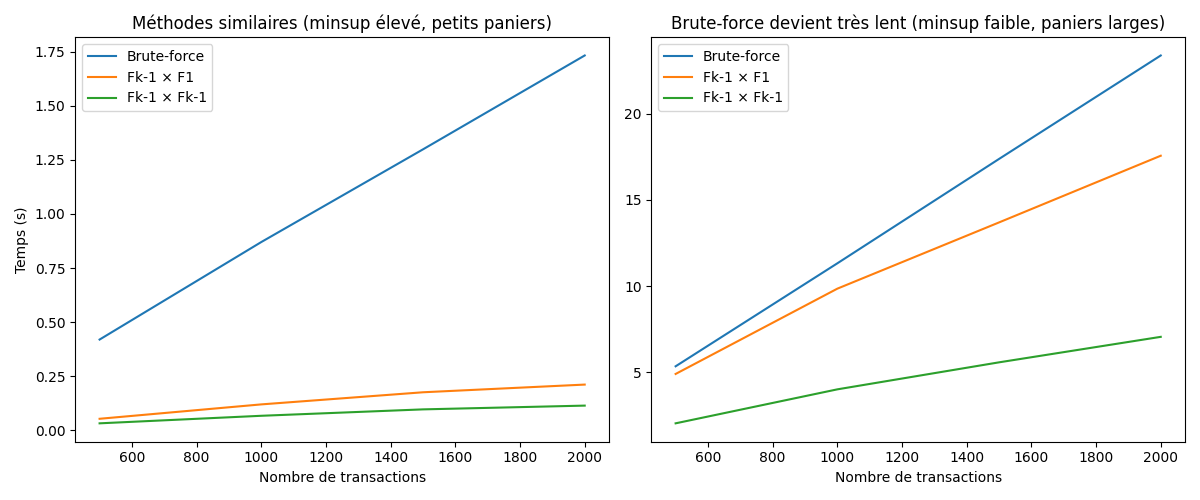
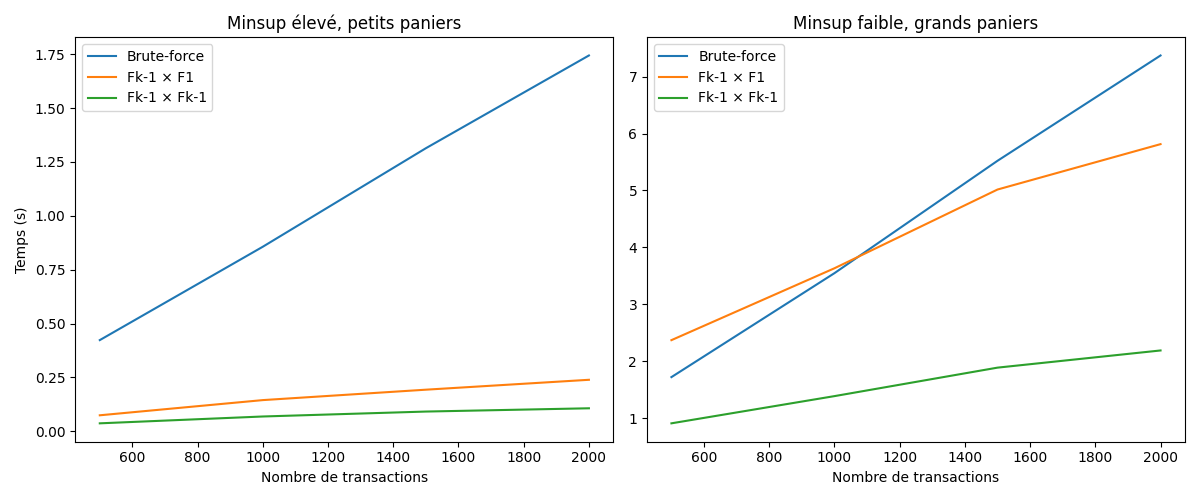
Update benchmark parameters and improve documentation in rapport

diff --git a/scripts/II_benchmark.py b/scripts/II_benchmark.py
@@ -34,13 +34,13 @@ def avg_runtime(transactions, minsup, method, runs=5):
 
 def benchmark():
     # --- Figure 1
-    minsup_left = 0.5
+    minsup_left = 0.8
     n_items_left = 15
     width_range_left = (3, 5)
 
     # --- Figure 2
-    minsup_right = 0.05
-    n_items_right = 17
+    minsup_right = 0.1
+    n_items_right = 15
     width_range_right = (5, 8)
 
     sizes = [500, 1000, 1500, 2000]
@@ -73,7 +73,7 @@ def benchmark():
     axes[0].plot(sizes, results_left["bruteforce"], label="Brute-force")
     axes[0].plot(sizes, results_left["stepwise"], label="Fk-1 × F1")
     axes[0].plot(sizes, results_left["selfjoin"], label="Fk-1 × Fk-1")
-    axes[0].set_title("Méthodes similaires (minsup élevé, petits paniers)")
+    axes[0].set_title("Minsup élevé, petits paniers")
     axes[0].set_xlabel("Nombre de transactions")
     axes[0].set_ylabel("Temps (s)")
     axes[0].legend()
@@ -82,7 +82,7 @@ def benchmark():
     axes[1].plot(sizes, results_right["bruteforce"], label="Brute-force")
     axes[1].plot(sizes, results_right["stepwise"], label="Fk-1 × F1")
     axes[1].plot(sizes, results_right["selfjoin"], label="Fk-1 × Fk-1")
-    axes[1].set_title("Brute-force devient très lent (minsup faible, paniers larges)")
+    axes[1].set_title("Minsup faible, grands paniers")
     axes[1].set_xlabel("Nombre de transactions")
     axes[1].legend()
 

diff --git a/rapport - figures/rapport.md b/rapport - figures/rapport.md
@@ -4,27 +4,21 @@ On teste 3 implémentations de génération d'itemsets fréquents pour la géné
 fréquents.
 
 1. Bruteforce 
-   - génération de tous les itemsets possibles de taille 1 à n (combinaisons de tous les 
-         items). 
+   - génération de tous les itemsets possibles de taille 1 à n (combinaisons de tous les items). 
    - Pour chaque itemset, calcule son support en parcourant toutes les transactions. 
    - Conserve uniquement ceux qui atteignent le support minimum. 
    - Probablement inefficace car teste même les itemsets qui ne peuvent pas être fréquents.
 2. Stepwise $(F_{k-1} × F_1)$
-   - Utilise la propriété __Apriori__ : si un itemset est fréquent, tous ses sous-ensembles le sont 
-      aussi. 
-   - Commence par les 1-itemsets fréquents ($F_1$), puis génère les candidats de taille k en 
-     combinant les itemsets fréquents de taille k-1 avec tous les 1-itemsets. 
-   - Calcule le support uniquement pour ces candidats. S'arrête quand aucun nouvel itemset 
-     fréquent n'est trouvé.
+   - Utilise la propriété __Apriori__ : si un itemset est fréquent, tous ses sous-ensembles le sont aussi.
+   - Commence par les 1-itemsets fréquents ($F_1$), puis génère les candidats de taille k en combinant les itemsets fréquents de taille k-1 avec tous les 1-itemsets. 
+   - Calcule le support uniquement pour ces candidats. S'arrête quand aucun nouvel itemset fréquent n'est trouvé.
 3. Self-join $(F_{k-1} × F_{k-1})$
    - Version optimisée d'Apriori. 
-   - Génère les candidats k-itemsets en joignant deux (k-1)-itemsets 
-      fréquents qui partagent leurs k-2 premiers éléments. 
+   - Génère les candidats k-itemsets en joignant deux (k-1)-itemsets fréquents qui partagent leurs k-2 premiers éléments. 
    - Applique un élagage : élimine les candidats ayant un sous-ensemble non fréquent (marqués "N") avant de calculer leur support. 
    - Plus efficace car génère moins de candidats.
 
-_Nb : L'efficacité de l'algorithme peut être améliorée de diverses façons (hasher les itemsets 
-en buckets, réduction de transactions, partitioning, sampling, compteur d'itemsets dynamiques)_
+_Nb : L'efficacité de l'algorithme peut être améliorée de diverses façons (hasher les itemsets en buckets, réduction de transactions, partitioning, sampling, compteur d'itemsets dynamiques)_
 
 ## 2. Test des fonctions
 cf notebooks
@@ -170,22 +164,83 @@ a,b,c,d,e 1 F
 -------------
 ```
 
-# II. Comparaison des implémentations 
+# II. Comparaison des implémentations
+
+## 1. Implémentation d'un générateur synthétique de transactions
+
+Pour générer des transactions synthétiques, on peut utiliser la fonction `sample` du module `random` de Python.
+
+```python
+import random
+
+items = ["bread", "milk", "diaper", "beer", "egg", "cola", "apple", "banana", "chocolate", "cheese", "yogurt", "cereal", "juice", "water", "meat", "fish", "rice", "pasta", "tomato", "lettuce"]
+
+def generate_transactions(n_transactions, n_items, width_range):
+    """
+    Génère un dataset synthétique de transactions.
+    """
+    if n_items > len(items):
+        raise ValueError(f"n_items ({n_items}) dépasse le nombre d'items disponibles ({len(items)})")
+
+    available_items = items[:n_items]
+    min_w, max_w = width_range
+
+    transactions = []
+    for _ in range(n_transactions):
+        k = random.randint(min_w, max_w)
+        transaction = random.sample(available_items, k)
+        transactions.append(transaction)
+
+    return transactions
+```
+
+Ensuite, un appel comme `generate_transactions(1000, 10, (2,5))` génèrera 1000 transactions :
+```python
+[
+    ['milk', 'bread', 'diaper'],
+    ['cola', 'egg', 'milk', 'bread'],
+    ...
+]
+```
+
+## 2. Benchmark des 3 méthodes: bruteforce, stepwise, et self-join
+
+Pour comparer les performances des trois méthodes implémentées, nous avons réalisé un benchmark en utilisant le générateur de transactions synthétiques écrit à la question précédente. Nous avons fait varier le nombre de transactions de 500 à 2000 et mesuré le temps d'exécution moyen sur plusieurs lancements pour lisser les résultats. Deux scénarios distincts ont été testés, menant à la figure ci-dessous.
+
+![Benchmark des méthodes](./Figure_1.png)
+
+### Analyse des résultats
+
+**Figure de gauche : La méthode brute-force se distingue**
+
+Pour générer cette figure, nous avons utilisé les paramètres suivants :
+- `minsup = 0.8` (support minimum élevé)
+- `n_items = 15` (nombre total d'items)
+- `width_range = (3, 5)` (paniers de petite taille)
+
+Avec un support minimum élevé et des paniers de petite taille, la figure montre que la méthode `brute-force` est nettement moins performante. Cela s'explique par le fait que, contrairement aux méthodes optimisées, l'approche `brute-force` doit d'abord générer l'ensemble de *toutes* les combinaisons d'items possibles avant de calculer leur support. Même si la plupart de ces candidats sont rapidement éliminés, cette phase de génération initiale représente un coût de calcul important. Les méthodes `stepwise` et `self-join`, en revanche, construisent intelligemment un ensemble de candidats beaucoup plus restreint à partir des itemsets déjà connus comme fréquents, évitant ainsi le surcoût de la génération exhaustive.
+
+**Figure de droite : Performances similaires**
+
+Pour cette figure, les paramètres ont été ajustés pour créer un scénario plus complexe :
+- `minsup = 0.1` (support minimum faible)
+- `n_items = 15` (nombre total d'items légèrement plus grand)
+- `width_range = (5, 8)` (paniers de plus grande taille)
+
+Pour cette figure, avec un `minsup` faible et des paniers plus larges, on observe des performances étonnamment similaires entre les trois méthodes. Dans ce scénario, le faible seuil de support fait qu'un très grand nombre d'itemsets sont considérés comme fréquents. Par conséquent, même les méthodes `stepwise` et `self-join`, qui utilisent la propriété Apriori pour élaguer, se retrouvent à générer un nombre de candidats très important, approchant la complexité de la méthode `brute-force`. L'avantage de l'élagage diminue lorsque la quasi-totalité des sous-ensembles sont fréquents. La charge de travail principale devient alors le parcours des transactions pour compter le support de chaque candidat, une étape commune aux trois approches, ce qui explique pourquoi leurs temps d'exécution convergent.
+
+
+
 # III. Comparaison avec les implémentations de _MLxstend_ et _Spark MLlib_
 
 ## 1. _MLxstend_ VS implémentation from scratch
 
 L'algorithme Apriori identifie les ensembles d'éléments fréquents en comptant la fréquence d'apparition des éléments ou combinaisons d'éléments dans un ensemble de données transactionnelles. 
 
-- Nos implémentations listent tous les candidats _(fréquents, peu fréquents et élagués)_, en les 
-marquant F, I ou N, tandis que _mlxtend_ n'affiche que les ensembles d'éléments atteignant le 
-  seuil de support minimal (environ 0,6 dans notre cas). 
-- En comparant uniquement les ensembles d'éléments fréquents, nos résultats et ceux de mlxtend 
-  sont identiques : 
-  - les ensembles fréquents à 1 élément sont `Bread, Milk, Diapers, Beer` et les 
-    ensembles fréquents à 2 éléments sont `(Beer, Diapers), (Bread, Diapers), (Bread, Milk), (Diapers, Milk)`. 
-  - Aucun ensemble à 3 éléments n'atteint le seuil de support; ils n'apparaissent donc pas dans 
-    mlxtend et votre code marque le seul candidat comme peu fréquent. 
+- Nos implémentations listent tous les candidats _(fréquents, peu fréquents et élagués)_, en les marquant F, I ou N, tandis que _mlxtend_ n'affiche que les ensembles d'éléments atteignant le seuil de support minimal (environ 0,6 dans notre cas). 
+- En comparant uniquement les ensembles d'éléments fréquents, nos résultats et ceux de mlxtend sont identiques : 
+  - les ensembles fréquents à 1 élément sont `Bread, Milk, Diapers, Beer` et les ensembles fréquents à 2 éléments sont `(Beer, Diapers), (Bread, Diapers), (Bread, Milk), (Diapers, Milk)`. 
+  - Aucun ensemble à 3 éléments n'atteint le seuil de support; ils n'apparaissent donc pas dans mlxtend et notre code marque le seul candidat comme peu fréquent. 
 - Ainsi, les différences apparentes proviennent uniquement du filtrage et de la présentation, et non des résultats de l'algorithme.
 
 | Taille | Itemsets                                                          |
@@ -196,20 +251,15 @@ marquant F, I ou N, tandis que _mlxtend_ n'affiche que les ensembles d'élément
 
 ## 2. _Spark MLlib_ : algorithme `FP-Growth`
 
-On peut reprendre cette définition de _Data mining : concepts and techniques_ pour l'algorithme 
-FP-Growth.
+On peut reprendre cette définition de _Data mining : concepts and techniques_ pour l'algorithme FP-Growth.
 
-Une méthode intéressante dans cette approche est appelée croissance de motifs fréquents, ou simplement croissance FP, qui adopte une stratégie de type « diviser pour régner » comme suit. 
+Une méthode intéressante dans cette approche est appelée croissance de motifs fréquents, ou simplement croissance FP, qui adopte une stratégie de type « diviser pour régner » comme suit.
 
-1. Premièrement, elle compresse la
-base de données représentant les éléments fréquents en un arbre de motifs fréquents, ou arbre FP, qui conserve les informations d'association des ensembles d'éléments.
-2. Elle divise ensuite la base de données compressée en un ensemble de bases de données 
-   conditionnelles (un type particulier de base de données projetée), chacune étant associée à un ensemble d'éléments trouvé jusqu'à présent, ou « fragment de motif »,
-et explore chaque base de données séparément. 
+1. Premièrement, elle compresse la base de données représentant les éléments fréquents en un arbre de motifs fréquents, ou arbre FP, qui conserve les informations d'association des ensembles d'éléments.
+2. Elle divise ensuite la base de données compressée en un ensemble de bases de données conditionnelles (un type particulier de base de données projetée), chacune étant associée à un ensemble d'éléments trouvé jusqu'à présent, ou « fragment de motif », et explore chaque base de données séparément. 
    - Pour chaque « fragment de motif », seuls ses ensembles de données associés doivent être examinés.
 
->Cette approche peut donc réduire considérablement la taille des ensembles de données à analyser, 
-ainsi que le nombre de motifs examinés.
+> Cette approche peut donc réduire considérablement la taille des ensembles de données à analyser, ainsi que le nombre de motifs examinés.
 
 # Bibliographie
 
